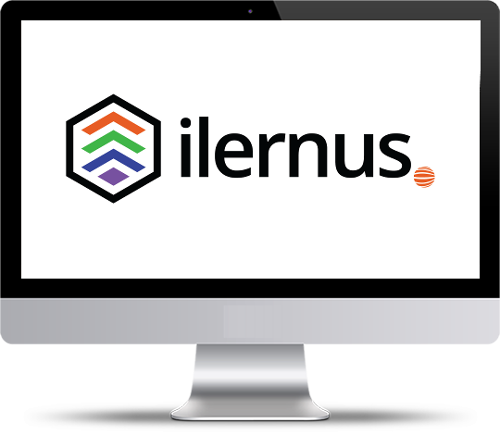
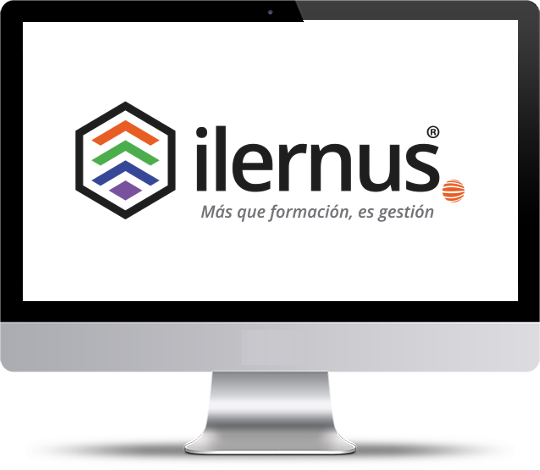
mas cambios fastidiosos

Changed region(s): [[0.36, 0.269, 0.87, 0.4782], [0.12, 0.2092, 0.33, 0.4782], [0.57, 0.0299, 0.96, 0.0598]]

diff --git a/resources/views/terminos.blade.php b/resources/views/terminos.blade.php
@@ -8,7 +8,7 @@
 
 					<div class="text-center">
 						<h3 class="size-30">Términos del Servicio</h3>
-						<p>En <strong style="color: #F47741; font-size: 20px">iLernus,</strong> nos adaptamos a <em><b>ti</b></em></p>
+						<p class="">En <strong style="color: #F47741; font-size: 20px">iLernus,</strong> nos adaptamos a <em><b>ti</b></em></p>
 					</div>
 
 				</div>
@@ -32,49 +32,112 @@
 
 					<div class="row">
 						<div class="col-md-6">
-							<h4>Half Column</h4>
-Lorem ipsum dolor sit amet, consectetur adipiscing elit. Pellentesque nulla lacus, tincidunt at urna at, pulvinar convallis tortor. Morbi purus mauris, varius at blandit sit amet, fringilla ac lacus. Proin eu viverra nisi. Suspendisse dapibus porta sapien. Quisque fringilla vehicula tortor a eleifend. Suspendisse auctor orci elit, eu tincidunt odio rhoncus nec. Mauris vel ultrices augue. Class aptent taciti sociosqu ad litora torquent per conubia nostra, per inceptos himenaeos. Proin volutpat congue ante eget tincidunt. Sed imperdiet pretium est ut sodales. Fusce sed tortor id mi volutpat ornare nec id massa. Nunc vitae imperdiet odio. Maecenas at volutpat leo. Nulla posuere eu sapien at facilisis. Maecenas tempor eget leo et aliquet.
 
-Nullam laoreet purus vitae sapien volutpat efficitur. Praesent egestas lobortis massa, sollicitudin feugiat augue posuere sed. Suspendisse ornare cursus neque vitae accumsan. Donec a tellus justo. Fusce eget porta leo. Nam vehicula, lorem placerat porttitor suscipit, justo justo laoreet orci, at sollicitudin sapien augue at metus. Praesent id augue vel mi malesuada dignissim. Curabitur posuere mi a ligula iaculis elementum.
+							<h4>Términos y Condiciones de Uso del Sitio Web Ilernus.com</h4>
+<p class="justify">
+Bienvenido a ilernus.com, la plataforma de B&G TECHNOLOGIES, S.A., para la Formación en Línea. El Servicio incluye (sin limitaciones) todos los sitios web, y otras funcionalidades interactivas, de propiedad, operada y distribuida por B&G TECHNOLOGIES, S.A.
+Al acceder a cualquier parte del Servicio, usted está aceptando los términos y condiciones que se describen a continuación, nuestra política de privacidad y cualquier otro aviso legal publicado en  el Sitio Web ilernus.com. Si usted no está de acuerdo con cualquiera de estos términos, no debe utilizar el Servicio. Estas condiciones se aplican a todos los usuarios que ingresan al sitio Web Ilernus.com, incluidos aquellos que simplemente están viendo el contenido disponible en la página web (usuarios no registrados), así como los usuarios registrados.
+Nosotros  podemos, a nuestra discreción, modificar las presentes Condiciones del Servicio. Al acceder al Servicio en cualquier momento después de las modificaciones, usted acepta los cambios realizados.
 
-Donec ultricies consequat odio, eget dignissim arcu finibus sed. Nunc dictum sit amet metus ac gravida. Curabitur mattis condimentum magna, non vestibulum nulla mollis et. Cras gravida ex justo, quis venenatis odio blandit ac. Proin rutrum viverra velit, a sollicitudin nisl eleifend ut. Maecenas auctor tincidunt ligula nec mattis. Quisque sed vestibulum nibh, nec aliquam mi. Vivamus eget fringilla diam. Proin ac lectus suscipit, sollicitudin enim eget, malesuada urna. Phasellus sit amet ex elementum, tempus dolor non, consectetur purus.
+</p>
 
-Vestibulum in placerat lacus. Donec scelerisque arcu at massa semper, ac congue mi dictum. Etiam molestie condimentum metus. Quisque dictum, diam at maximus maximus, nunc orci congue ex, id dictum elit leo a arcu. Duis lorem justo, pretium nec tempor non, aliquet eget odio. Quisque et orci tincidunt, faucibus est sit amet, tincidunt libero. Maecenas ligula justo, malesuada id maximus non, lacinia at felis. Nunc egestas elementum molestie. Morbi facilisis lacus nec diam mollis, vel venenatis quam venenatis. Orci varius natoque penatibus et magnis dis parturient montes, nascetur ridiculus mus. Nunc ultrices, felis vestibulum cursus ullamcorper, dui neque eleifend dolor, quis laoreet quam arcu eu neque. Suspendisse in eros vel tellus tincidunt tristique. Duis non nulla in nulla posuere maximus vitae ac purus. Curabitur sit amet semper odio.
+<h4>Descripción del Servicio</h4>
 
-Quisque gravida pharetra lacus sit amet pretium. Sed tristique purus non tellus interdum, ac condimentum orci auctor. Nulla a condimentum mauris. Aenean diam quam, pellentesque a lorem at, blandit posuere ligula. Suspendisse a diam consectetur, eleifend sapien a, vulputate libero. Duis ex turpis, bibendum id viverra non, hendrerit in magna. Etiam id metus eu dolor mollis hendrerit. Donec ut urna at est varius commodo sed et elit. Ut a quam a ex cursus pellentesque. In ullamcorper lorem ac nunc vulputate efficitur. Donec nec lorem non lacus fermentum pharetra. Nam sed erat nibh. Nunc eleifend dictum orci, sit amet condimentum nunc dignissim sit amet. Aenean odio massa, fringilla et egestas ac, gravida vel massa. Ut consectetur ante nec iaculis consectetur. Cras et arcu mattis arcu pellentesque maximus quis ut metus.
+<p class="justify">
+<b>B&G TECHNOLOGIES, S.A. (ILERNUS)</b> es una empresa dedicada al Desarrollo de Software, Tecnología y Soluciones de Inteligencia de Negocios.
+Como parte de su proceso de expansión de negocio ha  desarrollado una aplicación de Formación en línea, a través de una Plataforma Multiempresa Multiusuario. 
+<b>B&G TECHNOLOGIES, S.A. (ILERNUS)</b>,  mediante una combinación de conocimientos, tecnología y control de gestión ofrece transformar la manera de planificar, desarrollar y gestionar el proceso de formación dentro de las empresas.
+Mediante un proceso automatizado de formación intuitiva y de sencillo seguimiento pone a disposición de sus clientes una Biblioteca de Cursos variada y actualizada para cada industria, reduciendo  costos y optimizando el tiempo de cada colaborador de la empresa en el proceso de formación, de una manera sencilla.
+Los Clientes podrán gestionar los planes de formación para cada uno de sus colaboradores, ajustándolo al área de interés, así como al nivel de  conocimientos y a la vez participa en el control del proceso a través de los indicadores destinados a tal fin.
+De igual forma funciona como un   proveedor de servicios de su Plataforma, a fin de poner a su alcance innovadoras soluciones de tecnología para brindarle toda la infraestructura necesaria que contribuya a soportar el crecimiento y desarrollo de su empresa.
 
-Nam tempus consequat gravida. Aliquam dapibus, ipsum quis dignissim rhoncus, enim risus feugiat nisl, suscipit dapibus lorem nisl non erat. Quisque sem lorem, elementum vitae purus in, condimentum vulputate nulla. In tristique, orci vitae eleifend vehicula, ante urna sollicitudin dui, elementum consectetur erat turpis vel mauris. Donec scelerisque nisi sagittis lectus iaculis maximus. Nulla et mauris hendrerit, malesuada eros vitae, bibendum leo. Pellentesque et pretium eros, sed tincidunt dui.
+<b>B&G TECHNOLOGIES, S.A. (ILERNUS)</b> cuenta con un equipo de profesionales para poner al alcance de su organización  grandes eficiencias en cada uno de los componentes requeridos para el desarrollo de su estrategia de negocios, tanto para colocación de aplicaciones habilitadas por Internet, así como, para soporte a aplicaciones de negocios que requieren servicios de su Plataforma.
+Entre los elementos diferenciadores que posee ilernus, para proveer  y utilizar sus servicios, podemos mencionar los siguientes:
 
-Donec tellus nisl, sagittis sed arcu vel, efficitur semper odio. Aliquam vel risus tortor. Morbi in bibendum orci, in convallis elit. Morbi id fringilla dui, vitae mattis leo. Nunc sollicitudin at ligula at scelerisque. Cras non magna vitae felis congue consequat. Aenean consequat et nibh id porta. Nullam facilisis odio lectus, at cursus eros porta at. Vestibulum sit amet accumsan mauris, vel placerat mi. Nam accumsan non diam eu vehicula. Class aptent taciti sociosqu ad litora torquent per conubia nostra, per inceptos himenaeos. Sed vel urna turpis. Ut sed dolor in dolor tristique lobortis vel a mi. Duis pretium sit amet nibh vel luctus. Cras quis dapibus ligula, non laoreet diam.
+<ul>
+	
+	<li>Equipo de Profesionales especializados en cada una de las materias.</li>
+	<li>Plataforma alojada  en Data Center Internacional.</li>
+	<li>Alianzas estratégicas con proveedores de tecnología para garantizar importantes ventajas en el uso de tecnologías de punta.</li>
+	<li>Control de usuarios.</li>
+	<li>Conectividad.</li>
+	<li>Gestión automatizada de la Selección, Asignación y Seguimiento de Planes de formación por colaborador.</li>
+	<li>Creación de Pensum de formación por tipo de cargo.</li>
+	<li>Comercialización de créditos y opción de proyectos a la medida.</li>
+	<li>Intercambio de conocimientos en espacios virtuales.</li>
+	<li>Autogestión de organigrama de formación.</li>	
 
-Integer at cursus mi. Sed egestas scelerisque pharetra. Aliquam lobortis sem eu justo fermentum dictum. Aliquam quis enim vitae justo sodales imperdiet. Sed eros turpis, dapibus sit amet vestibulum mollis, venenatis at sem. Curabitur quis viverra est. Nam efficitur consequat cursus.
+</ul>
 
-Nullam tempus, diam ut semper bibendum, ante quam tristique ex, dictum hendrerit sem ligula in nibh. Aenean eget ante id risus faucibus venenatis eu eu purus. Suspendisse potenti. Etiam sagittis lacus at tortor blandit, eget semper odio viverra. Nam id condimentum elit. Sed leo neque, dignissim eu lorem non, suscipit pretium mi. Curabitur quis ex scelerisque, sodales urna non, pulvinar diam. Praesent facilisis nisl ipsum. In blandit nisi tellus, a fermentum leo efficitur nec. Quisque mollis mattis ex, ut imperdiet mi viverra quis. Mauris quis turpis dolor.
 
-Nunc tempus nec urna eget suscipit. Praesent et rutrum lectus. Sed at quam sed turpis feugiat commodo. Suspendisse potenti. Aenean egestas ligula et mauris sodales varius. Integer luctus sapien bibendum elit tincidunt, in laoreet nisi elementum. Quisque risus arcu, cursus sed ornare nec, aliquam eget eros. Fusce at lacus eu risus molestie elementum. Sed lobortis velit vitae erat aliquet egestas. Pellentesque sagittis diam a justo ornare, eu scelerisque dui viverra. Maecenas arcu nibh, tempus et pretium sed, aliquet ac odio. Duis ac consectetur dui, pretium interdum arcu. Sed aliquam sodales tincidunt. Morbi tempus, leo non faucibus aliquam, massa est vehicula tellus, scelerisque luctus justo diam nec orci.							
-						</div>
+
+</p>
+
+
+<h4>Términos del Servicio</h4>
+<p class="justify">
+Los siguientes términos se aplican al uso del Servicio:
+<ol>
+<li>Toda la información personal que usted proporcione al momento de la solicitud del servicio y, posteriormente, debe ser verdadera y precisa.</li>
+<li>Usted es responsable por mantener la seguridad de su usuario y contraseña. Ilernus  no será responsable por cualquier pérdida o daño causado por el incumplimiento de esta medida de seguridad.</li>
+<li>Usted se compromete a no cargar al Servicio ningún archivo con derecho de autor, marca registrada o materiales de propiedad sin la autorización expresa del titular.</li>
+<li>Usted se compromete a utilizar el Servicio únicamente para fines lícitos y a no emplearlo de forma que infrinja el uso o los derechos de <b>B&G TECHNOLOGIES, S.A. (ILERNUS)</b> o de cualquier otro usuario.</li>
+</ol>
+</p>
+
+</div>
+
+
+
 
 						<div class="col-md-6">
-							<h4>Half Column</h4>
-Lorem ipsum dolor sit amet, consectetur adipiscing elit. Pellentesque nulla lacus, tincidunt at urna at, pulvinar convallis tortor. Morbi purus mauris, varius at blandit sit amet, fringilla ac lacus. Proin eu viverra nisi. Suspendisse dapibus porta sapien. Quisque fringilla vehicula tortor a eleifend. Suspendisse auctor orci elit, eu tincidunt odio rhoncus nec. Mauris vel ultrices augue. Class aptent taciti sociosqu ad litora torquent per conubia nostra, per inceptos himenaeos. Proin volutpat congue ante eget tincidunt. Sed imperdiet pretium est ut sodales. Fusce sed tortor id mi volutpat ornare nec id massa. Nunc vitae imperdiet odio. Maecenas at volutpat leo. Nulla posuere eu sapien at facilisis. Maecenas tempor eget leo et aliquet.
 
-Nullam laoreet purus vitae sapien volutpat efficitur. Praesent egestas lobortis massa, sollicitudin feugiat augue posuere sed. Suspendisse ornare cursus neque vitae accumsan. Donec a tellus justo. Fusce eget porta leo. Nam vehicula, lorem placerat porttitor suscipit, justo justo laoreet orci, at sollicitudin sapien augue at metus. Praesent id augue vel mi malesuada dignissim. Curabitur posuere mi a ligula iaculis elementum.
 
-Donec ultricies consequat odio, eget dignissim arcu finibus sed. Nunc dictum sit amet metus ac gravida. Curabitur mattis condimentum magna, non vestibulum nulla mollis et. Cras gravida ex justo, quis venenatis odio blandit ac. Proin rutrum viverra velit, a sollicitudin nisl eleifend ut. Maecenas auctor tincidunt ligula nec mattis. Quisque sed vestibulum nibh, nec aliquam mi. Vivamus eget fringilla diam. Proin ac lectus suscipit, sollicitudin enim eget, malesuada urna. Phasellus sit amet ex elementum, tempus dolor non, consectetur purus.
 
-Vestibulum in placerat lacus. Donec scelerisque arcu at massa semper, ac congue mi dictum. Etiam molestie condimentum metus. Quisque dictum, diam at maximus maximus, nunc orci congue ex, id dictum elit leo a arcu. Duis lorem justo, pretium nec tempor non, aliquet eget odio. Quisque et orci tincidunt, faucibus est sit amet, tincidunt libero. Maecenas ligula justo, malesuada id maximus non, lacinia at felis. Nunc egestas elementum molestie. Morbi facilisis lacus nec diam mollis, vel venenatis quam venenatis. Orci varius natoque penatibus et magnis dis parturient montes, nascetur ridiculus mus. Nunc ultrices, felis vestibulum cursus ullamcorper, dui neque eleifend dolor, quis laoreet quam arcu eu neque. Suspendisse in eros vel tellus tincidunt tristique. Duis non nulla in nulla posuere maximus vitae ac purus. Curabitur sit amet semper odio.
+<h4>Derechos de Autor  y  Derechos de Propiedad Industrial </h4>
 
-Quisque gravida pharetra lacus sit amet pretium. Sed tristique purus non tellus interdum, ac condimentum orci auctor. Nulla a condimentum mauris. Aenean diam quam, pellentesque a lorem at, blandit posuere ligula. Suspendisse a diam consectetur, eleifend sapien a, vulputate libero. Duis ex turpis, bibendum id viverra non, hendrerit in magna. Etiam id metus eu dolor mollis hendrerit. Donec ut urna at est varius commodo sed et elit. Ut a quam a ex cursus pellentesque. In ullamcorper lorem ac nunc vulputate efficitur. Donec nec lorem non lacus fermentum pharetra. Nam sed erat nibh. Nunc eleifend dictum orci, sit amet condimentum nunc dignissim sit amet. Aenean odio massa, fringilla et egestas ac, gravida vel massa. Ut consectetur ante nec iaculis consectetur. Cras et arcu mattis arcu pellentesque maximus quis ut metus.
+<p class="justify">
+	
 
-Nam tempus consequat gravida. Aliquam dapibus, ipsum quis dignissim rhoncus, enim risus feugiat nisl, suscipit dapibus lorem nisl non erat. Quisque sem lorem, elementum vitae purus in, condimentum vulputate nulla. In tristique, orci vitae eleifend vehicula, ante urna sollicitudin dui, elementum consectetur erat turpis vel mauris. Donec scelerisque nisi sagittis lectus iaculis maximus. Nulla et mauris hendrerit, malesuada eros vitae, bibendum leo. Pellentesque et pretium eros, sed tincidunt dui.
+Toda la información contenida disponible a través de este sitio web están protegidos por la Ley Sobre el  Derecho de Autor y los Derechos de Propiedad Industrial  en Venezuela. El propietario de los derechos de autor y marca registrada es B&G TECHNOLOGIES, S.A., sus afiliados y/o terceros otorgantes de licencias. A excepción de lo expresamente permitido por la ley aplicable o como se describe en estos Términos y Condiciones, la licencia correspondiente o el acuerdo suscrito, usted no podrá copiar, mostrar, distribuir, modificar, publicar, reproducir, almacenar, transmitir, crear trabajos derivados, vender o licenciar todo o parte de los contenidos, productos o servicios obtenidos de este sitio en cualquier medio a cualquier persona. Usted puede imprimir y descargar porciones de material de las diferentes áreas del servicio exclusivamente para su uso propio y no para uso comercial, siempre que usted se comprometa a no modificar o eliminar los derechos de autor o de propiedad de los materiales.
+Los  contenidos descargables del sitio se pueden imprimir o guardar para su uso personal, no comercial, siempre y cuando los derechos de autor y otros avisos de propiedad se mantengan intactos. Sin la previa autorización por escrito de B&G TECHNOLOGIES, S.A., está prohibido obtener los contenidos del sitio para crear, directa o indirectamente, una colección, compilación, base de datos o directorio a través de robots o minería de datos, recopilación de datos o herramientas similares de extracción o procesos manuales. Usted no puede utilizar técnicas de enmarcado para adjuntar cualquier marca, logo u otra información de propiedad (incluyendo imágenes, texto, diseño de página, o forma) de B&G TECHNOLOGIES, S.A., o sus afiliados sin consentimiento escrito. Usted no puede usar etiquetas internas o cualquier otro "texto oculto" utilizando el nombre B&G TECHNOLOGIES, S.A. o ilernus, marcas comerciales sin el consentimiento por escrito de B&G TECHNOLOGIES, S.A. 	
+</p>
 
-Donec tellus nisl, sagittis sed arcu vel, efficitur semper odio. Aliquam vel risus tortor. Morbi in bibendum orci, in convallis elit. Morbi id fringilla dui, vitae mattis leo. Nunc sollicitudin at ligula at scelerisque. Cras non magna vitae felis congue consequat. Aenean consequat et nibh id porta. Nullam facilisis odio lectus, at cursus eros porta at. Vestibulum sit amet accumsan mauris, vel placerat mi. Nam accumsan non diam eu vehicula. Class aptent taciti sociosqu ad litora torquent per conubia nostra, per inceptos himenaeos. Sed vel urna turpis. Ut sed dolor in dolor tristique lobortis vel a mi. Duis pretium sit amet nibh vel luctus. Cras quis dapibus ligula, non laoreet diam.
 
-Integer at cursus mi. Sed egestas scelerisque pharetra. Aliquam lobortis sem eu justo fermentum dictum. Aliquam quis enim vitae justo sodales imperdiet. Sed eros turpis, dapibus sit amet vestibulum mollis, venenatis at sem. Curabitur quis viverra est. Nam efficitur consequat cursus.
 
-Nullam tempus, diam ut semper bibendum, ante quam tristique ex, dictum hendrerit sem ligula in nibh. Aenean eget ante id risus faucibus venenatis eu eu purus. Suspendisse potenti. Etiam sagittis lacus at tortor blandit, eget semper odio viverra. Nam id condimentum elit. Sed leo neque, dignissim eu lorem non, suscipit pretium mi. Curabitur quis ex scelerisque, sodales urna non, pulvinar diam. Praesent facilisis nisl ipsum. In blandit nisi tellus, a fermentum leo efficitur nec. Quisque mollis mattis ex, ut imperdiet mi viverra quis. Mauris quis turpis dolor.
+<h4>Conducta de Uso del Servicio</h4>
+<p class="justify">
 
-Nunc tempus nec urna eget suscipit. Praesent et rutrum lectus. Sed at quam sed turpis feugiat commodo. Suspendisse potenti. Aenean egestas ligula et mauris sodales varius. Integer luctus sapien bibendum elit tincidunt, in laoreet nisi elementum. Quisque risus arcu, cursus sed ornare nec, aliquam eget eros. Fusce at lacus eu risus molestie elementum. Sed lobortis velit vitae erat aliquet egestas. Pellentesque sagittis diam a justo ornare, eu scelerisque dui viverra. Maecenas arcu nibh, tempus et pretium sed, aliquet ac odio. Duis ac consectetur dui, pretium interdum arcu. Sed aliquam sodales tincidunt. Morbi tempus, leo non faucibus aliquam, massa est vehicula tellus, scelerisque luctus justo diam nec orci.							
+El uso del Servicio está sujeto a todas las leyes y regulaciones aplicables. Usted es el único responsable por el contenido de sus comunicaciones en el Servicio. Usted se compromete a no cargar, compartir, publicar, distribuir o facilitar la distribución de cualquier Archivo -incluyendo texto, comunicaciones, software, imágenes, sonidos, datos u otra información- que:
+Sea ilegal, amenazante, abusivo, acosador, difamatorio, injurioso, engañoso, fraudulento, que invada la privacidad de otro, tortuoso, que contenga descripciones o cuentas explícitas o gráficas de actos sexuales (incluyendo pero no limitado a lenguaje sexual de naturaleza violenta o amenazadora dirigida a otro individuo o grupo de individuos), o de otro modo que viole nuestras reglas o políticas;
+Victimice, acose, degrade o intimide a una persona o grupo de personas sobre la base de su religión, género, orientación sexual, raza, etnia, edad o discapacidad;
+Infrinja cualquier patente, marca comercial, secreto comercial, derecho de autor, derecho de publicidad u otra propiedad intelectual o derecho de propiedad de cualquier parte;
+Constituya publicidad no autorizada o no solicitada, o correo masivo no deseado (también conocido como "spam"), cartas en cadena, cualquier otra forma de solicitación no autorizada o cualquier forma de lotería o juegos de azar;
+Contenga virus informáticos o cualquier otro código informático, archivos o programas diseñados o destinados a interrumpir, dañar o limitar el funcionamiento de cualquier software, hardware o equipo de telecomunicaciones, o a dañar u obtener acceso no autorizado a cualquier dato u otra información de terceros;
+
+Usted no puede utilizar su usuario para violar la seguridad de otra cuenta o intentar obtener acceso no autorizado a otra red o servidor. No todas las partes del Servicio pueden estar disponibles para usted u otros usuarios autorizados del Servicio. Usted no deberá interferir con el uso y el disfrute de cualquier otra persona del Servicio. Los usuarios que violan sistemas de seguridad de la red pueden incurrir en responsabilidad penal o civil.
+Usted acepta que es posible que en cualquier momento y a nuestra entera discreción, se cancele su participación, cuenta u otra afiliación con el Servicio sin previo aviso por violar cualquiera de las disposiciones anteriores. Además, usted reconoce que vamos a cooperar plenamente con las investigaciones relacionadas a la violación de los sistemas de seguridad de la red en otros sitios, y que colaboraremos con las autoridades policiales en la investigación de presuntos casos de violación penal.
+B&G TECHNOLOGIES, S.A. se reserva el derecho, pero no tiene la obligación, de eliminar de la plataforma cualquier curso cualquier momento y por cualquier motivo.
+El usuario de esta página web y B&G TECHNOLOGIES, S.A. (ilernus)  aceptan que cualquier controversia o reclamación derivada o referente al uso de esta página web se resolverá según las leyes de Venezuela, y se elige como domicilio especial, único y exclusivo a la ciudad de Caracas, a la Jurisdicción de  cuyos Tribunales declaran expresamente las partes a someterse. 
+
+
+<br>
+Vigente a partir del 21 de Junio de 2016.
+<br>
+
+He leído y acepto las condiciones 
+<br>
+Para cualquier notificación favor dirigirse a :
+e-mail: _____________________.com
+Teléfonos: 
+ 
+</p>
+
+
+
+
+
+
 						</div>
 					</div>
 

diff --git a/resources/views/index.blade.php b/resources/views/index.blade.php
@@ -602,8 +602,9 @@
 							
 							<div class="heading-title heading-border-bottom heading-color">
 								<h3>
-									<img class="pull-center img-responsive wow fadeInLeft" data-wow-delay="0.4s" src="{{ asset('smarty/assets/images/demo/layerslider/emblema.png') }}" style="width: 10%" alt="" />
-									<strong style="color: #35459C; font-size: 25px">iLernus University</strong>
+									<!--<img class="pull-center img-responsive wow fadeInLeft" data-wow-delay="0.4s" src="{{ asset('smarty/assets/images/demo/layerslider/emblema.png') }}" style="width: 10%" alt="" />-->
+									<img class="pull-center img-responsive wow fadeIn" data-wow-delay="0.4s" src="{{ asset('smarty/assets/images/LOGOS-ILERNUS-FINAL-2017-05.png') }}" style="width: 100%" alt="" />									
+									<!--<strong style="color: #35459C; font-size: 25px">iLernus University</strong>-->
 								</h3>
 
 							</div>
@@ -615,8 +616,8 @@
 						<div class="col-md-4">
 							<div class="heading-title heading-border-bottom heading-color">
 								<h3>
-									<img class="pull-center img-responsive wow fadeInLeft" data-wow-delay="0.4s" src="{{ asset('smarty/assets/images/demo/layerslider/emblema.png') }}" style="width: 10%" alt="" />
-									<strong style="color: #35459C; font-size: 25px">iLernus Producciones</strong>
+									<img class="pull-center img-responsive wow fadeIn" data-wow-delay="0.4s" src="{{ asset('smarty/assets/images/LOGOS-ILERNUS-FINAL-2017-03.png') }}" style="width: 100%" alt="" />
+									<!--<strong style="color: #35459C; font-size: 25px">iLernus Producciones</strong>-->
 								</h3>
 							</div>
 							<p style="text-align: justify;">Ofrece la concepción, desarrollo y producción de <strong style="color: #F47741">servicios instruccionales y audiovisuales</strong> con fines educativos, diseñándolos a la medida de su empresa bajo altos estándares de calidad.</p>
@@ -626,8 +627,8 @@
 						<div class="col-md-4">
 							<div class="heading-title heading-border-bottom heading-color">
 								<h3>
-									<img class="pull-center img-responsive wow fadeInLeft" data-wow-delay="0.4s" src="{{ asset('smarty/assets/images/demo/layerslider/emblema.png') }}" style="width: 10%" alt="" />
-									<strong style="color: #35459C; font-size: 25px">iLernus Academia</strong>
+									<img class="pull-center img-responsive wow fadeIn" data-wow-delay="0.4s" src="{{ asset('smarty/assets/images/LOGOS-ILERNUS-FINAL-2017-04.png') }}" style="width: 100%" alt="" />
+									<!--<strong style="color: #35459C; font-size: 25px">iLernus Academia</strong>-->
 								</h3>
 							</div>
 							<p style="text-align: justify;">Brinda <strong style="color: #F47741">soluciones educativas presenciales</strong> in company o en nuestras instalaciones, con un equipo de la más alta talla que diseñan una estratégica de formación a su medida.</p>

diff --git a/resources/views/footer.blade.php b/resources/views/footer.blade.php
@@ -10,7 +10,7 @@
 								<li>
 
 									<a href="http://www.ilernus.com" target="">
-										<img src="{{ asset('smarty/assets/images/LOGO-ILERNUS-Y-UNIDADES-DE-NEGOCIO-01.png') }}" alt="logo iLernus" title="www.ilernus.com" />	
+										<img class="img-responsive" src="{{ asset('smarty/assets/images/LOGOS-ILERNUS-FINAL-2017-01.png') }}" alt="logo iLernus" title="www.ilernus.com" style="width: 100%" />	
 									</a>
 
 								</li>
@@ -19,6 +19,22 @@
 								
 							</ul>
 
+						</div>
+
+						<div class="col-md-3">
+
+							<!-- Links -->
+
+
+							<h4 class="letter-spacing-1">Soporte</h4>
+							<ul class="footer-links list-unstyled">
+								<li><a href="{{ route('mapa')}}">Mapa del Sitio</a></li>
+								<li><a href="{{ route('terminos') }}">Términos del Servicio</a></li>
+								<li><a href="{{ route('politicas')}}">Políticas de Privacidad</a></li>
+							</ul>
+
+							<!-- /Links -->
+									
 						</div>
 
 						<div class="col-md-3">
@@ -42,23 +58,7 @@
 
 
 							<!-- /Links -->
-									
-						</div>
 
-						<div class="col-md-3">
-							<!-- Links -->
-
-
-							<h4 class="letter-spacing-1">Soporte</h4>
-							<ul class="footer-links list-unstyled">
-								<li><a href="{{ route('mapa')}}">Mapa del Sitio</a></li>
-								<li><a href="{{ route('terminos') }}">Términos del Servicio</a></li>
-								<li><a href="{{ route('politicas')}}">Políticas de Privacidad</a></li>
-							</ul>
-
-
-
-							<!-- /Links -->
 						</div>
 
 						<div class="col-md-3">
@@ -67,12 +67,12 @@
 								<li>
 
 									<a href="http://www.monitorbg.com" target="_blank">
-										<img src="{{ asset('smarty/assets/images/bg.png') }}" alt="logo bg" title="www.monitorbg.com"/>	
+										<img class="img-responsive" src="{{ asset('smarty/assets/images/bg.png') }}" alt="logo bg" title="www.monitorbg.com" style="width: 100%" />	
 									</a>
 
 								</li>
 
-								<li>Desarrollado por: B&G Technologies S.A. J-405498633</li>
+								<li>Desarrollado por B&G S.A. J-405498633</li>
 								
 							</ul>
 

diff --git a/resources/views/app.blade.php b/resources/views/app.blade.php
@@ -109,7 +109,7 @@
 
 						<!-- Logo -->
 						<a class="logo pull-left" href="{{ route('home') }}">
-							<img src="{{ asset('smarty/assets/images/LOGO-ILERNUS-Y-UNIDADES-DE-NEGOCIO-01.png') }}" alt="logo ilernus" title="www.ilernus.com" />														
+							<img class="img-responsive" src="{{ asset('smarty/assets/images/LOGOS-ILERNUS-FINAL-2017-01.png') }}" alt="logo ilernus" title="www.ilernus.com" />														
 						</a>
 
 

diff --git a/resources/views/app2.blade.php b/resources/views/app2.blade.php
@@ -109,7 +109,7 @@
 
 						<!-- Logo -->
 						<a class="logo pull-left" href="{{ route('home') }}">
-							<img src="{{ asset('smarty/assets/images/ilernus4.png') }}" alt="logo ilernus" title="www.ilernus.com" />														
+							<img class="img-responsive" src="{{ asset('smarty/assets/images/LOGOS-ILERNUS-FINAL-2017-01.png') }}" alt="logo ilernus" title="www.ilernus.com" />														
 						</a>
 
 
